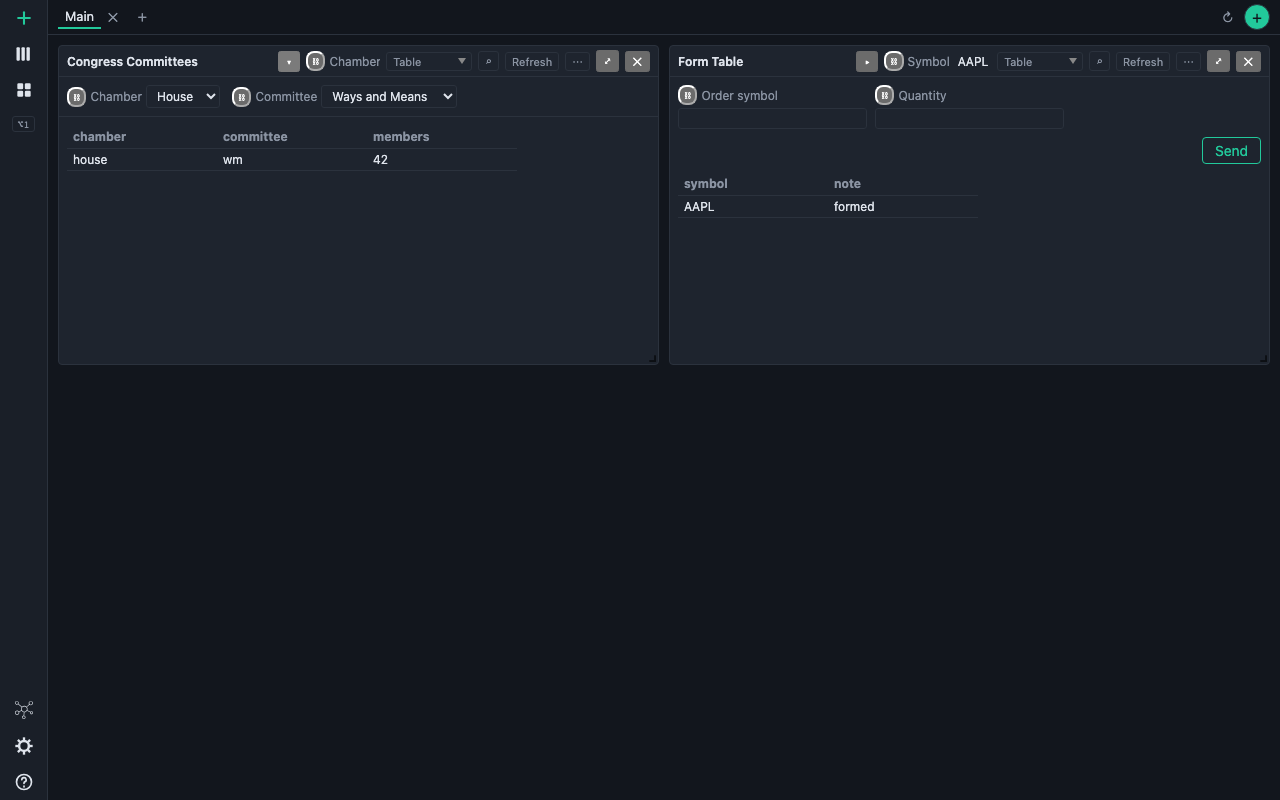
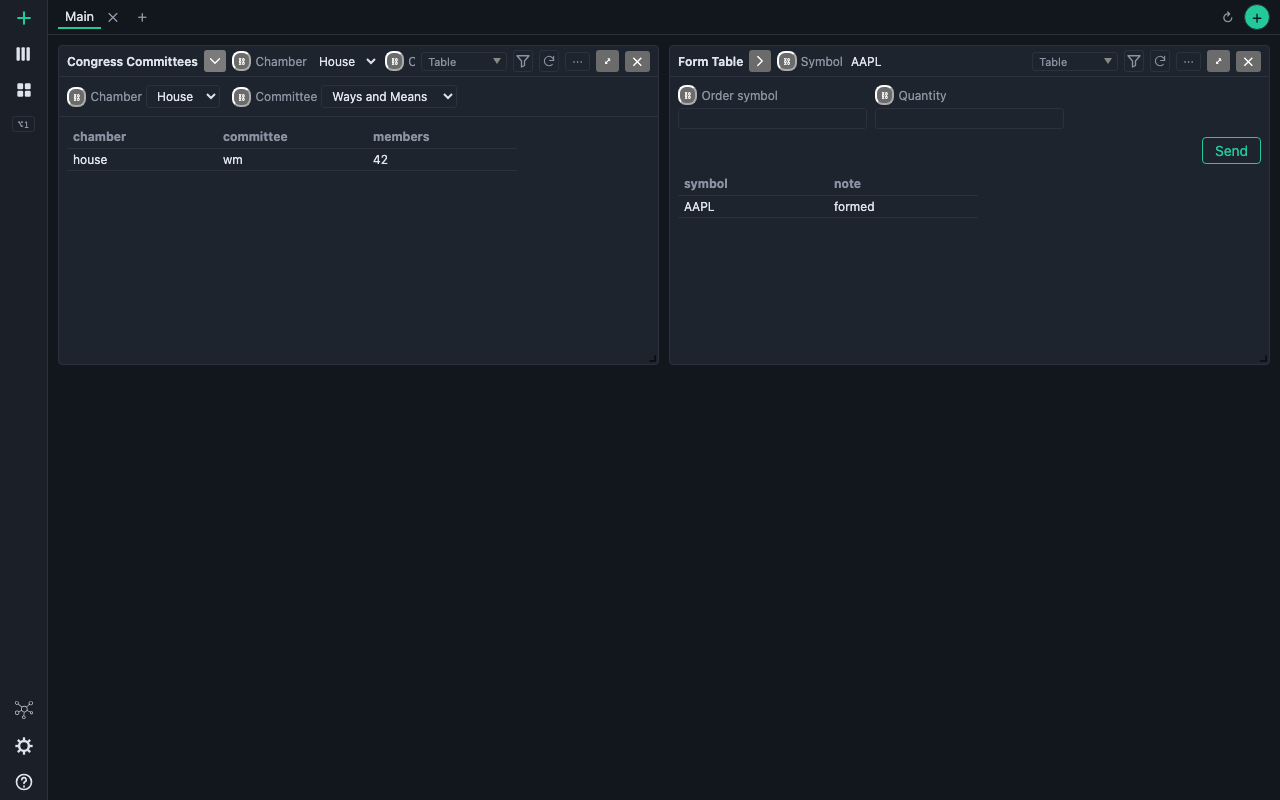
fix(v3): free header space and use clear vector controls

diff --git a/src/components/WidgetCard.tsx b/src/components/WidgetCard.tsx
@@ -27,6 +27,9 @@ import { useDashboardStore } from "../stores/dashboardStore";
 import { useSettingsStore } from "../stores/settingsStore";
 import { useWidgetRegistryStore } from "../stores/widgetRegistryStore";
 import { InlineRename } from "./InlineRename";
+import { RefreshIcon } from "./RefreshIcon";
+import { ChevronIcon } from "./ChevronIcon";
+import { FilterIcon } from "./FilterIcon";
 import { ParamControls } from "./ParamControls";
 import { MenuPanel } from "./RowContextMenu";
 import { WidgetFormPanel } from "./WidgetFormPanel";
@@ -1197,7 +1200,7 @@ export function WidgetCard({ card, onRemove, viewer = false, headless = false }:
         ) : null}
         {hasControls ? (
           <button type="button" aria-label={paramsOpen ? "Hide parameters" : "Show parameters"} aria-expanded={paramsOpen} onClick={toggleParams}>
-            {paramsOpen ? "▾" : "▸"}
+            <ChevronIcon direction={paramsOpen ? "down" : "right"} />
           </button>
         ) : null}
         {hasControls && widget && dashboard ? (
@@ -1229,7 +1232,7 @@ export function WidgetCard({ card, onRemove, viewer = false, headless = false }:
               aria-expanded={controlsOpen}
               onClick={() => setControlsOpen((v) => !v)}
             >
-              ⌄
+              <ChevronIcon direction={controlsOpen ? "up" : "down"} />
             </button>
           ) : null}
           <div className="card-controls-icons">
@@ -1253,7 +1256,7 @@ export function WidgetCard({ card, onRemove, viewer = false, headless = false }:
                 aria-pressed={filterRowOpen}
                 onClick={() => setFilterRowOpen((v) => !v)}
               >
-                {"⌕"}
+                <FilterIcon />
               </button>
             ) : null}
             {widget?.runButton ? (
@@ -1263,6 +1266,7 @@ export function WidgetCard({ card, onRemove, viewer = false, headless = false }:
               <button
                 type="button"
                 className="card-action"
+                aria-label="Refresh"
                 title={refreshTitle()}
                 data-stale={dataStale || undefined}
                 onPointerEnter={stampTitle}
@@ -1270,7 +1274,7 @@ export function WidgetCard({ card, onRemove, viewer = false, headless = false }:
                 onClick={retry}
                 disabled={widget?.type === "linked_chart" && !linkedPublication?.refresh}
               >
-                Refresh
+                <RefreshIcon />
               </button>
             )}
             {hasMenu ? (

diff --git a/src/styles.css b/src/styles.css
@@ -1233,7 +1233,7 @@ body {
 
 /* With title-bar parameters the name keeps its own width (ellipsised only if
    it alone would overflow) and the row takes the rest. */
-.card-header-params .card-title { flex: 0 1 auto; max-width: 60%; }
+.card-header:has(.card-chips:not(.card-chips-hidden)) .card-title { flex: 0 1 auto; max-width: min(30%, 18rem); }
 
 /* Last in the header's flow, whatever comes after it in the DOM, and a full
    line wide, so the rows sit under the title bar. */
@@ -1897,3 +1897,6 @@ td[data-flash="down"] { animation: cell-flash-down 0.7s ease-out; }
 .linked-surface-controls fieldset { display:flex; flex-wrap:wrap; gap:8px; border:0; padding:0; margin:0; }
 .linked-surface-controls fieldset label { display:flex; align-items:center; gap:4px; }
 .linked-surface > .chart-plot { flex:1; min-height:120px; height:auto; }
+
+/* Vector header controls stay centred without font-glyph baselines or clipping. */
+.card-header button:has(> svg) { display: inline-flex; align-items: center; justify-content: center; padding: 0; min-width: 20px; min-height: 22px; }

diff --git a/e2e/header-scroll.spec.ts b/e2e/header-scroll.spec.ts
@@ -28,6 +28,8 @@ test("PR88: compact header scrolls without moving title or actions", async ({pag
   await page.evaluate(() => document.fonts.ready.then(() => undefined));
   await card.evaluate(async el => { await Promise.all((el.closest(".react-grid-item") ?? el).getAnimations({subtree: true}).filter(a => a.effect?.getTiming().iterations !== Infinity).map(a => a.finished.catch(() => undefined))); });
   const title = await card.locator(".card-title").boundingBox();
+  const textWidth = await card.locator('.card-title').evaluate(el => { const range=document.createRange();range.selectNodeContents(el);return range.getBoundingClientRect().width; });
+  expect(title!.width).toBeLessThanOrEqual(textWidth + 2);
   const close = card.getByRole("button", {name: "Remove card", exact: true});
   const action = await close.boundingBox();
   expect((await card.locator(".card-header").boundingBox())!.height).toBeLessThanOrEqual(48);

diff --git a/src/components/ChevronIcon.tsx b/src/components/ChevronIcon.tsx
@@ -1,0 +1,8 @@
+// Copyright 2026 SecretoftheUniverse.com LLC. Licensed under the GNU Affero General Public License, version 3 only.
+// SPDX-License-Identifier: AGPL-3.0-only
+
+export function ChevronIcon({ direction = "down" }: { direction?: "down" | "up" | "right" }) {
+  return <svg width="18" height="18" viewBox="0 0 24 24" fill="none" stroke="currentColor" strokeWidth="1.8" strokeLinecap="round" strokeLinejoin="round" aria-hidden="true" focusable="false" style={{ display: "block", transform: direction === "up" ? "rotate(180deg)" : direction === "right" ? "rotate(-90deg)" : undefined }}>
+    <path d="m6 9 6 6 6-6" />
+  </svg>;
+}

diff --git a/src/components/RefreshIcon.tsx b/src/components/RefreshIcon.tsx
@@ -1,0 +1,10 @@
+// Copyright 2026 SecretoftheUniverse.com LLC. Licensed under the GNU Affero General Public License, version 3 only.
+// SPDX-License-Identifier: AGPL-3.0-only
+
+/** Browser-style refresh: one circular arrow, inheriting the button's state colour. */
+export function RefreshIcon() {
+  return <svg width="14" height="14" viewBox="0 0 24 24" fill="none" stroke="currentColor" strokeWidth="1.8" strokeLinecap="round" strokeLinejoin="round" aria-hidden="true" focusable="false" style={{ display: "block" }}>
+    <path d="M20 11a8 8 0 1 0-2.3 6.7" />
+    <path d="M20 4v7h-7" />
+  </svg>;
+}

diff --git a/src/components/FilterIcon.tsx b/src/components/FilterIcon.tsx
@@ -1,0 +1,9 @@
+// Copyright 2026 SecretoftheUniverse.com LLC. Licensed under the GNU Affero General Public License, version 3 only.
+// SPDX-License-Identifier: AGPL-3.0-only
+
+/** Filter-row toggle; vector geometry avoids a font-dependent magnifier glyph. */
+export function FilterIcon() {
+  return <svg width="18" height="18" viewBox="0 0 24 24" fill="none" stroke="currentColor" strokeWidth="1.8" strokeLinecap="round" strokeLinejoin="round" aria-hidden="true" focusable="false" style={{ display: "block" }}>
+    <path d="M4 5h16l-6 7v6l-4 2v-8Z" />
+  </svg>;
+}
